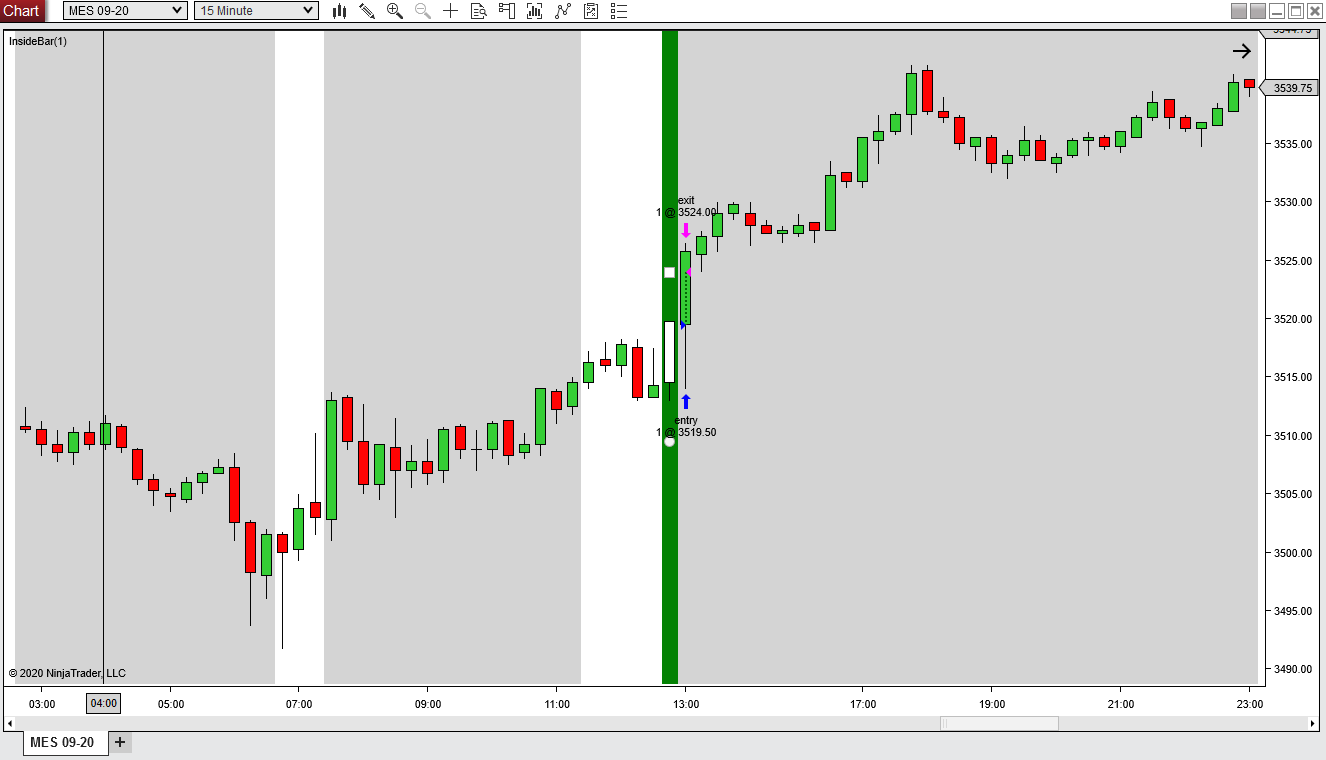
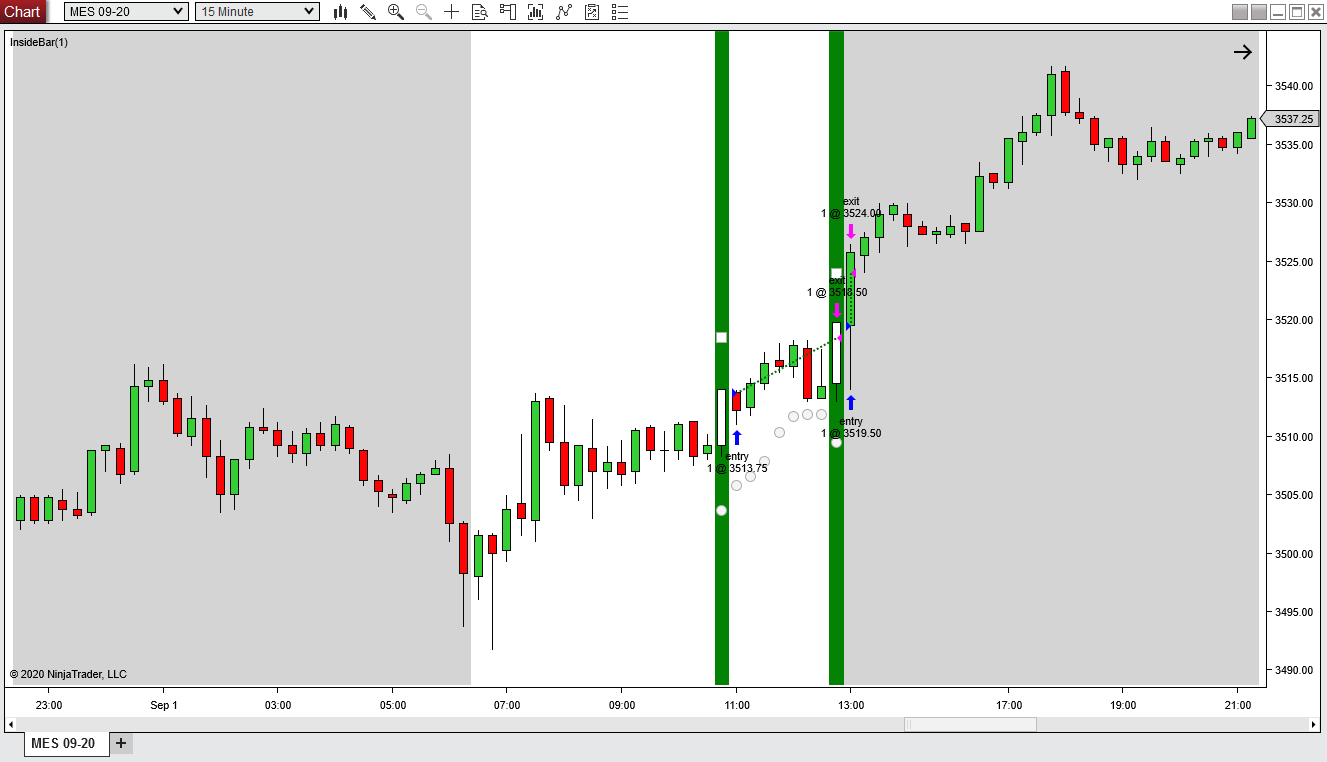
clean up script

diff --git a/inside_bar.cs b/inside_bar.cs
@@ -70,10 +70,10 @@ namespace NinjaTrader.NinjaScript.Strategies {
                 ATRLength = 3;
                 ATRMultiplier = 2.0;
                 ContractQty = 1;
-                MorningStart = ToTime (6, 31, 00);
-                MorningEnd = ToTime (07, 30, 00);
-                AfternoonStart = ToTime (11, 30, 00);
-                AfternoonEnd = ToTime (12, 50, 00);
+                MorningStart = ToTime (6, 30, 00);
+                MorningEnd = ToTime (10, 00, 00);
+                AfternoonStart = ToTime (10, 00, 00);
+                AfternoonEnd = ToTime (12, 59, 00);
                 AfternoonClose = ToTime (12, 59, 00);
                 Offline = ToTime (13, 00, 00);
                 Dusk = ToTime (23, 59, 59);
@@ -185,14 +185,6 @@ namespace NinjaTrader.NinjaScript.Strategies {
                 if (CurrentBar < BarsRequiredToTrade) {
                     return;
                 }
-
-                ////////////////////////////////////
-                // ES VWAP
-                ////////////////////////////////////
-                double VWAPValue = OrderFlowVWAP (BarsArray[1], VWAPResolution.Standard, TradingHours, VWAPStandardDeviations.Three, 1, 2, 3).VWAP[0];
-
-                bool BullVWAP = Closes[1][0] > VWAPValue;
-                bool BearVWAP = Closes[1][0] < VWAPValue;
 
                 ////////////////////////////////////
                 // Check for weekday

diff --git a/README.md b/README.md
@@ -4,6 +4,7 @@
 
 ![Inside Bar](https://github.com/iniguezdj/ninjatrader_inside_strategy/blob/master/mes_5min.PNG)
 
+### About
 
 ##### Inside bars are formed when the current bar does not close above or below the previous bar. This strategy identifies inside bars and sends buy or sell orders if price breaks above or below the inside bar. It is fully automated, meaning it will send an order to open a position and immediately send a target limit and stop order to close the position. Additionally, it will move the stop order using Average True Range. The script is written to use on a micro futures chart (/MES, /MNQ, /MYM, etc) but imports the mini futures data (/ES, /NQ, /YM) and uses data from the mini futures to signal a buy/sell order on the micro futures.
 
